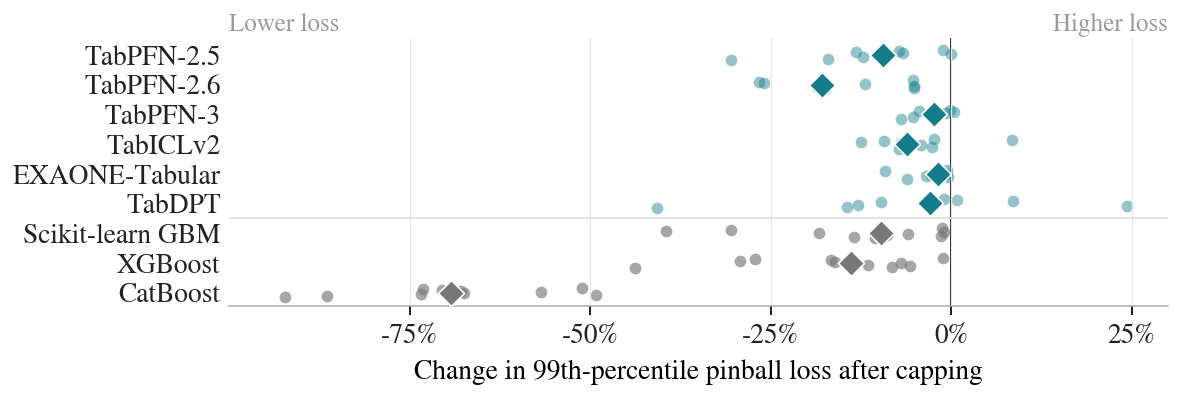
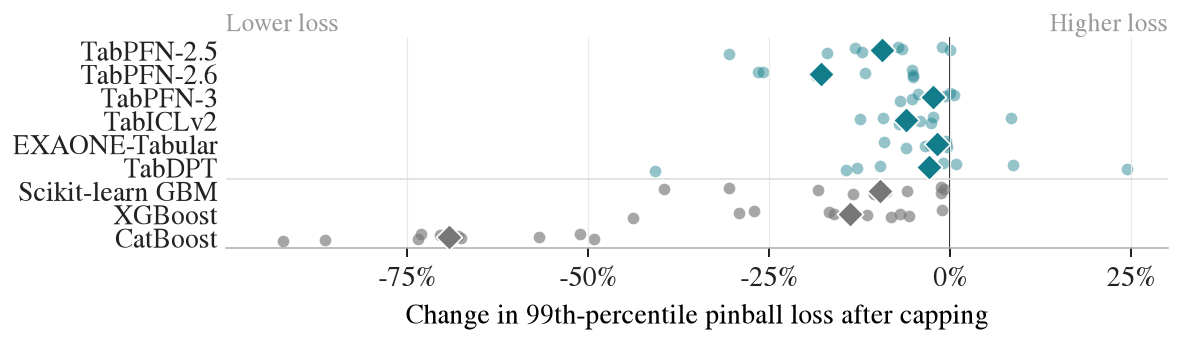
Move the supplement out of the repository

diff --git a/analysis/supplement_figures.py b/analysis/supplement_figures.py
@@ -90,7 +90,7 @@ def natural():
     x = d[(d.arm_c == 'raw') & (d.bin == '4.0-inf')].copy()
     x['ratio'] = 1 + x.d_q99
     x[['model', 'repeat', 'sd_shift', 'ratio']].to_csv(DATA/'natural_sensitivity.csv', index=False)
-    fig, ax = plt.subplots(figsize=(6.5, 2.15), layout='constrained')
+    fig, ax = plt.subplots(figsize=(6.5, 1.85), layout='constrained')
     dots(ax, x, 'ratio', 5, 'Lower predictions', 'Higher predictions', SLATE)
     ax.axvline(1, color=INK, lw=.8, zorder=0)
     ax.set_xscale('log')
@@ -108,7 +108,7 @@ def natural():
     cap = cap.reset_index()
     cap[['model', 'bin', 'repeat', 'relative_change']].to_csv(DATA/'natural_capping.csv',
                                                              index=False)
-    fig, ax = plt.subplots(figsize=(6.5, 2.15), layout='constrained')
+    fig, ax = plt.subplots(figsize=(6.5, 1.85), layout='constrained')
     dots(ax, cap, 'relative_change', 10, 'Lower loss', 'Higher loss', BLUE)
     ax.axvline(0, color=INK, lw=.8, zorder=0)
     ax.set_xlim(-1, .3)
@@ -166,7 +166,7 @@ def synthetic():
     med = long.pivot_table(index=['variant', 'sd_shift_target'], columns='quantile',
                            values='relative_change', aggfunc='median')[LEVELS]
 
-    fig, ax = plt.subplots(figsize=(6.5, 2.05), layout='constrained')
+    fig, ax = plt.subplots(figsize=(6.5, 1.7), layout='constrained')
     bars(ax, [med.loc[('raw', s)].to_numpy() for s in (4, 20, 50)],
          ['4×', '20×', '50×'], ORANGES, 'One added target multiplies the context SD by')
     save(fig, 'synthetic_error')
@@ -174,7 +174,7 @@ def synthetic():
     # The added target always exceeds the cap, so the capped context is the same at every
     # shift; 50x is shown.
     assert np.allclose(med.loc[('clip', 4)], med.loc[('clip', 50)])
-    fig, ax = plt.subplots(figsize=(6.5, 2.05), layout='constrained')
+    fig, ax = plt.subplots(figsize=(6.5, 1.7), layout='constrained')
     bars(ax, [med.loc[('raw', 50)].to_numpy(), med.loc[('clip', 50)].to_numpy()],
          ['Without capping', 'With capping'], [ORANGES[-1], BLUE],
          'Context SD multiplied by 50')

diff --git a/README.md b/README.md
@@ -4,9 +4,6 @@ Experiments for my master's thesis on how tabular foundation models predict
 large target values, how one extreme value in the context changes their predictions,
 and whether capping that value improves accuracy.
 
-[Research supplement (PDF)](supplement/jaric_extreme_context_targets.pdf)
-· [LaTeX source](supplement/jaric_extreme_context_targets.tex)
-
 ## Main results
 
 On 40 synthetic tasks, one added extreme target made the context standard deviation
@@ -34,9 +31,8 @@ python -m analysis.supplement_figures
 ```
 
 This uses stored results and needs no model weights, data download or GPU.
-Figures and plotted values are written to `supplement/`; README images go to
-`figures/`. See the [supplement instructions](supplement/README.md) to rebuild
-the PDF and package the ZIP.
+Plotted values are written to `supplement/`, which is not tracked; README images go
+to `figures/`.
 
 ## Code and results
 
